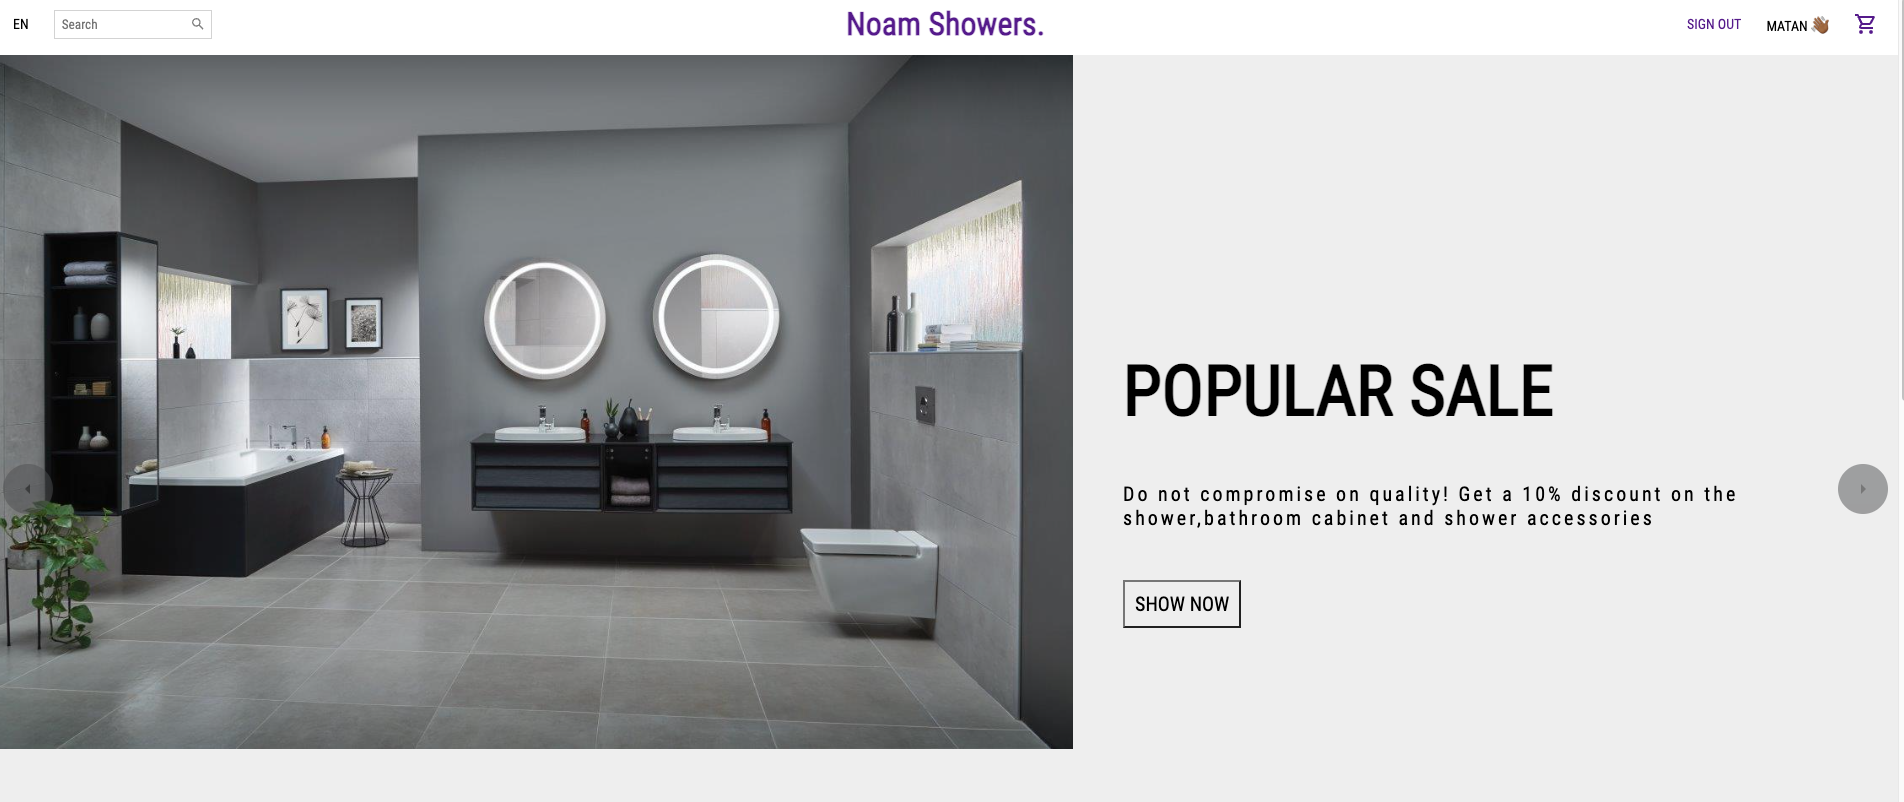
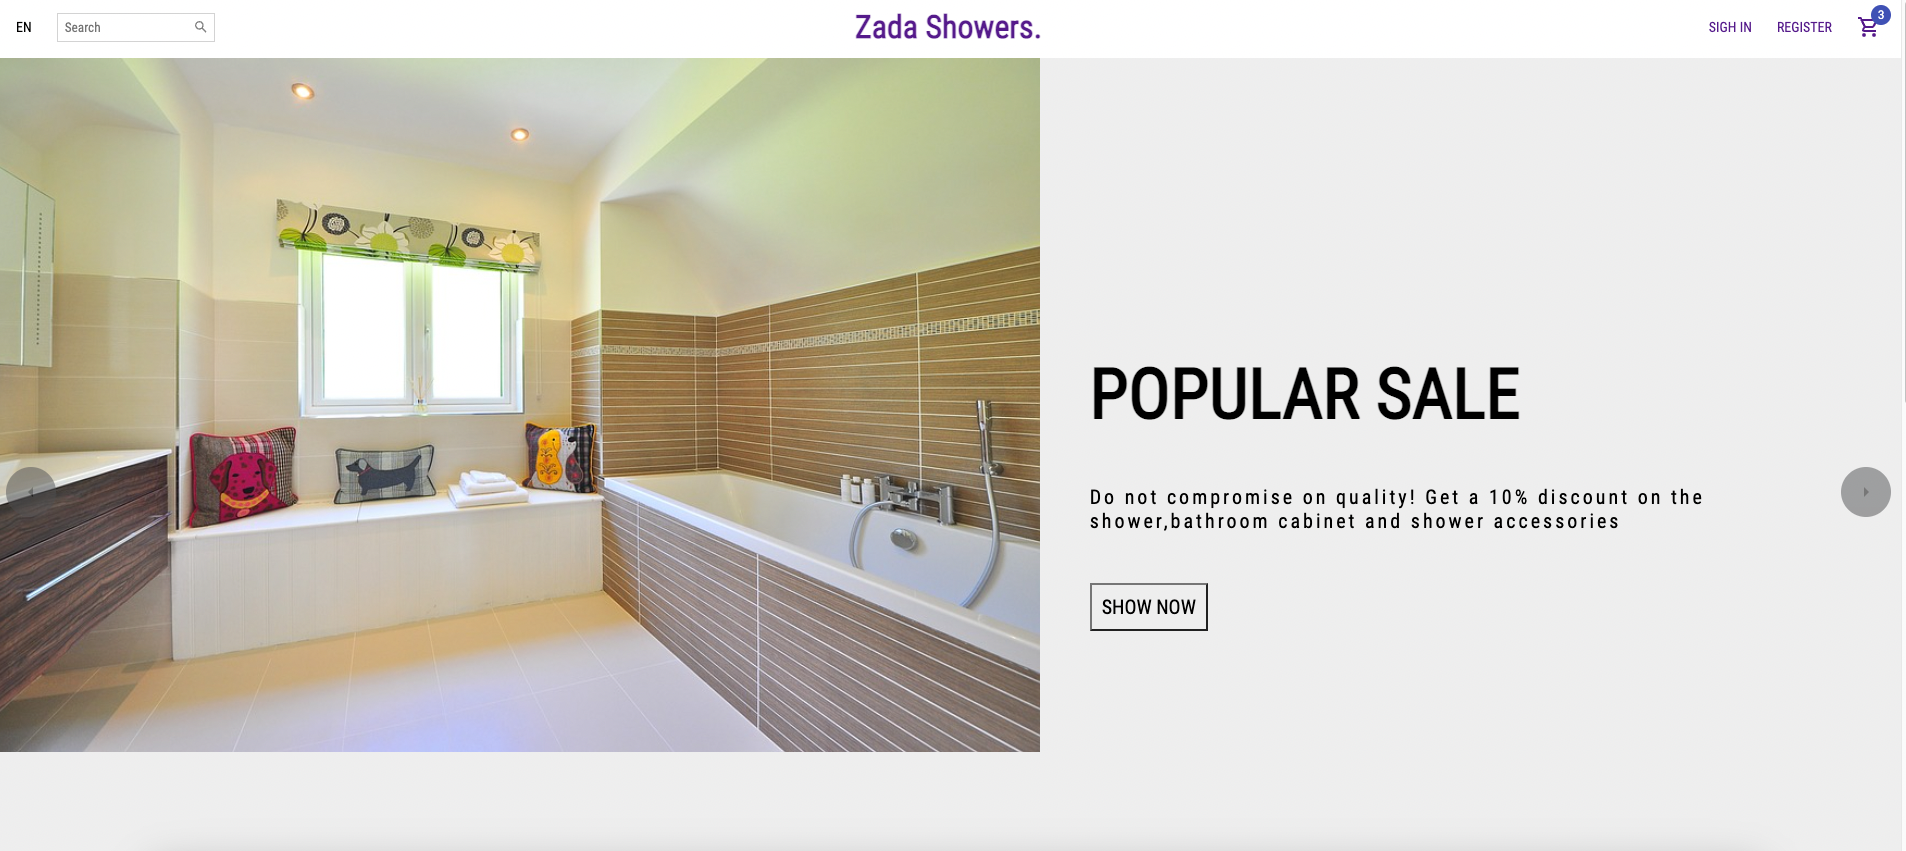
changing products/images

diff --git a/client/src/components/Footer.jsx b/client/src/components/Footer.jsx
@@ -81,7 +81,7 @@ const Footer = () => {
   return (
     <Container>
       <Left>
-        <Logo>Noam Showers.</Logo>
+        <Logo>Zada Showers.</Logo>
         <Desc>All rights reserved to Matan Zada</Desc>
         <SocialContainer>
           <SocialIcon color="4E4F51">
